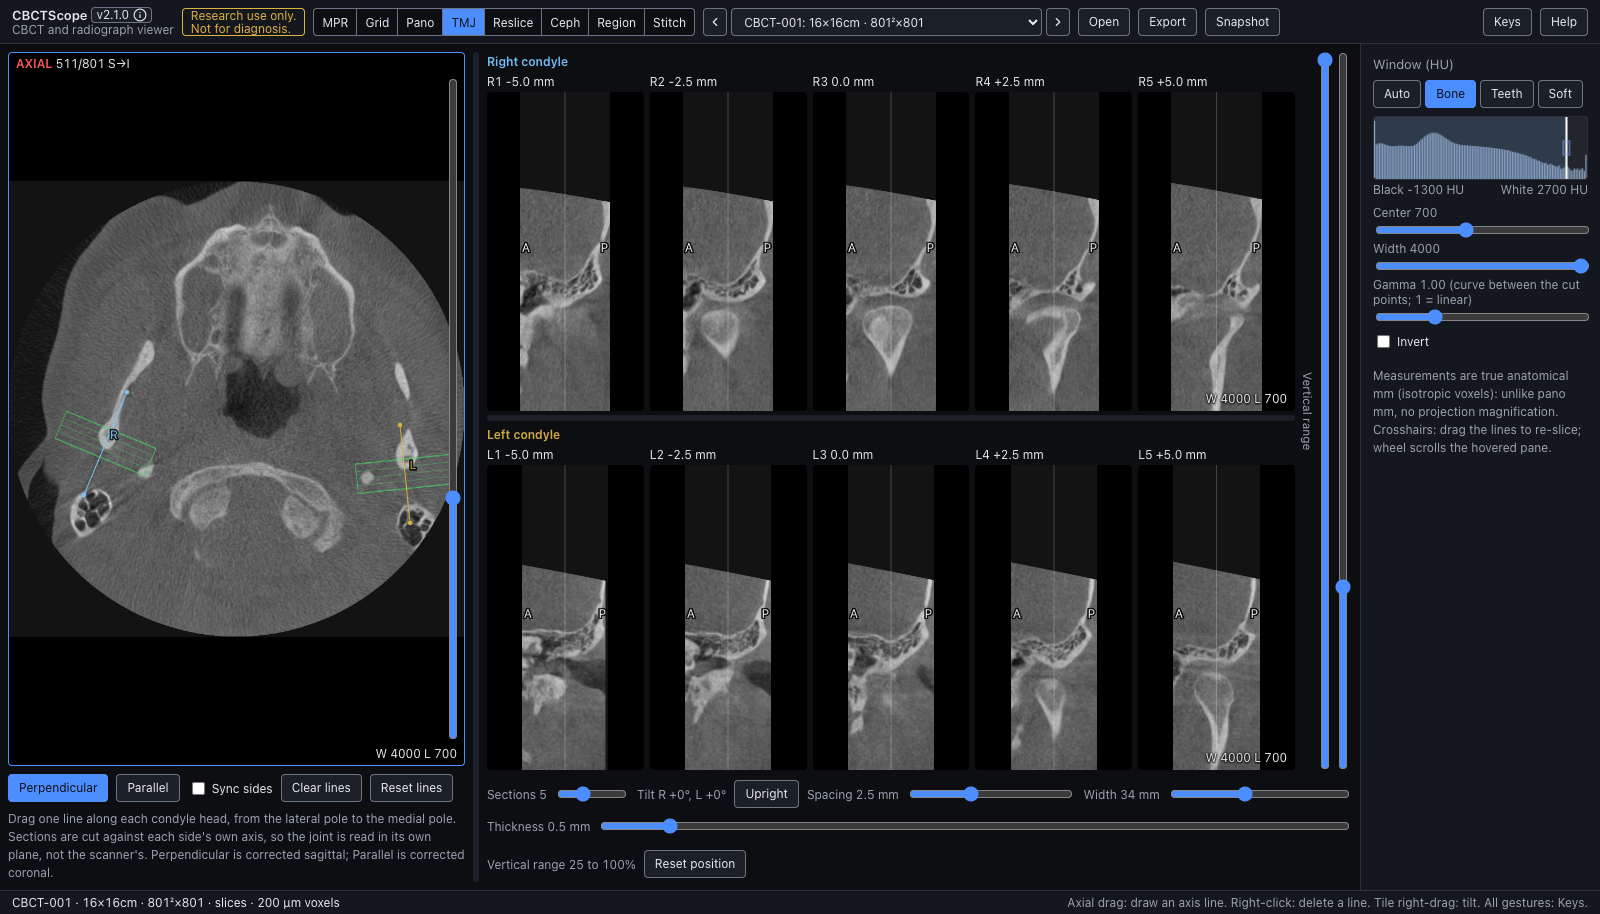
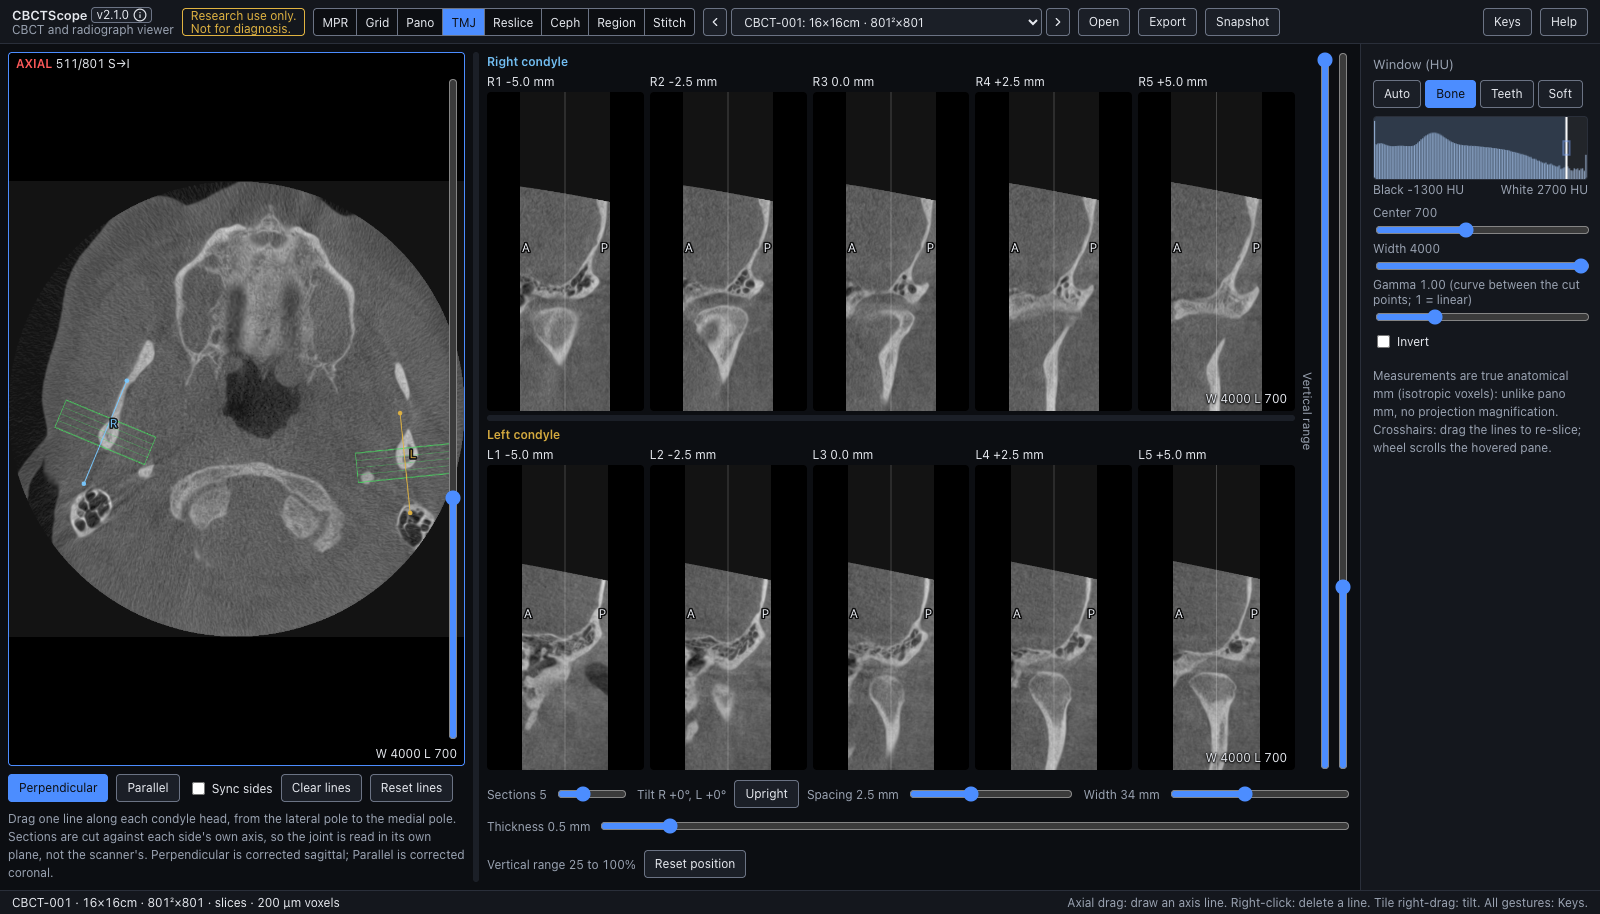
The README thumbnails and the agent GIF come from manual-shots.mjs, whose thumbs and gif plans read their states from the per-volume parameter file and encode the GIF with ffmpeg, and both show v2.1.0 with the final labels

diff --git a/docs/manual/README.md b/docs/manual/README.md
@@ -43,3 +43,13 @@ a layout change needs no recalibration. The older `manual-shots.json` beside
 it carries CSS pixels of the v1.6 layout and no longer fits the script.
 Recapture after any change to the header or to a mode's layout, in the same
 commit as the change.
+
+The README media come from the same script and the same parameter file, run
+against `npm run dev` with the real CBCT open: `node scripts/manual-shots.mjs
+thumbs --params <file>` writes the four `docs/media/thumb-*.png` (1600 by 914,
+device scale 1), and `node scripts/manual-shots.mjs gif --params <file>` drives
+the agent demo's beats with the agent verbs and encodes
+`docs/media/cbctscope-demo.gif` (960 by 548, 31 frames). The gif plan needs
+ffmpeg on the PATH (`brew install ffmpeg` on macOS) and says so when it is
+missing; its frames live in the OS temp folder and are deleted after encoding.
+Re-run both whenever the header or a mode they show changes.
